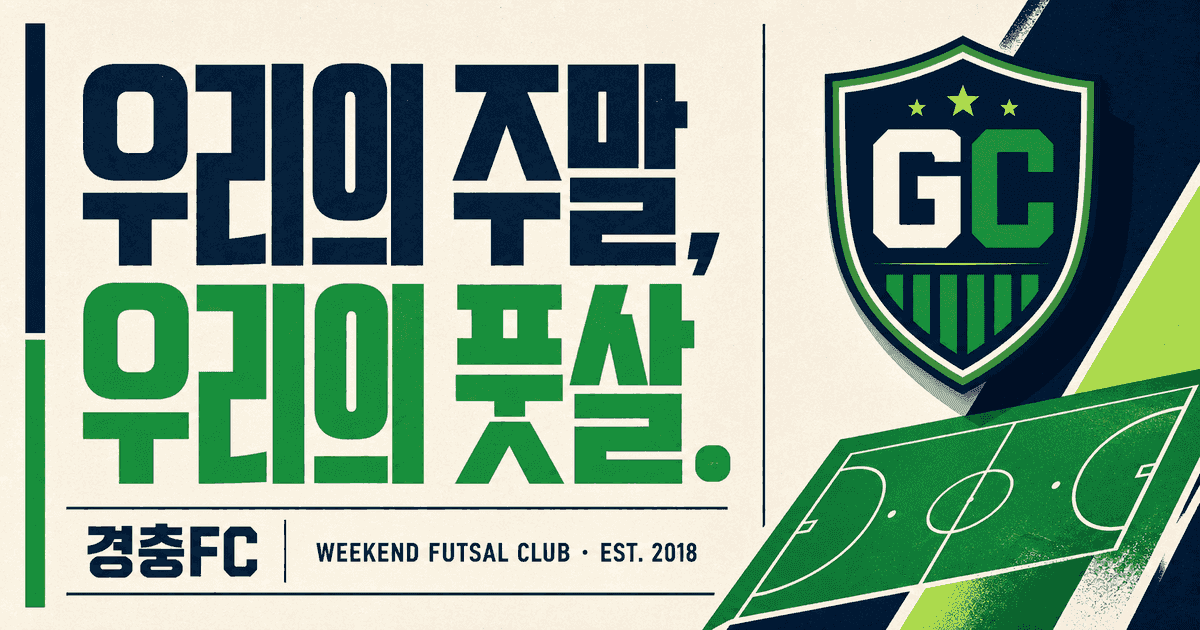
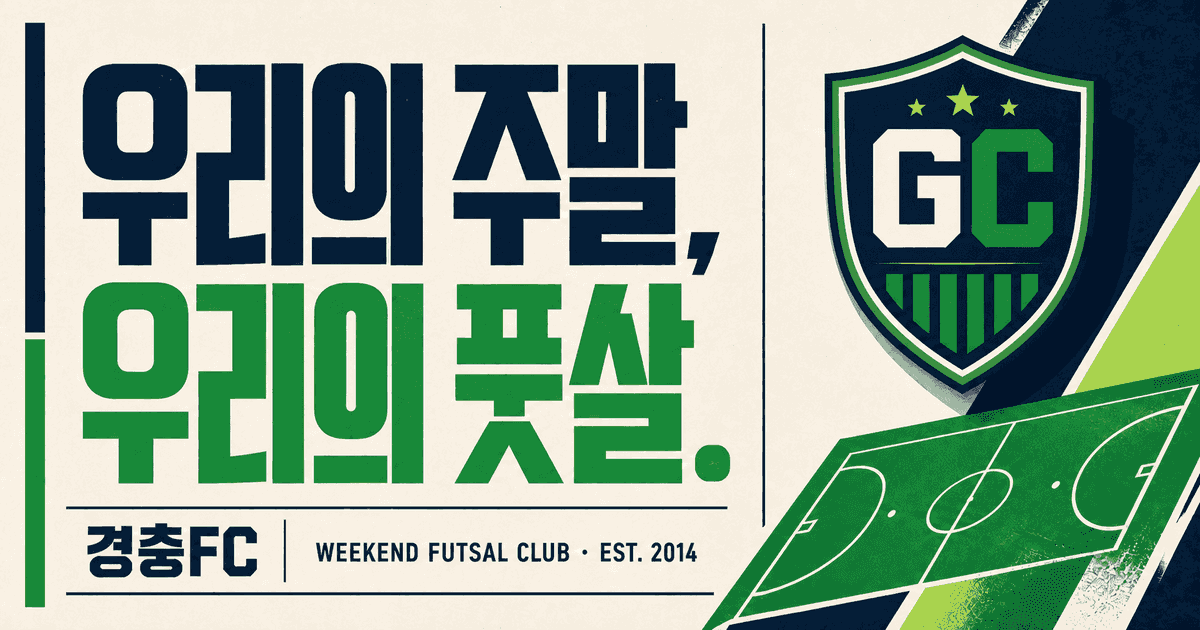
fix: 3차 QA 후속 개선 반영

diff --git a/components/clubhouse.tsx b/components/clubhouse.tsx
@@ -2,6 +2,7 @@
 
 import { useCallback, useEffect, useMemo, useRef, useState } from "react";
 import dynamic from "next/dynamic";
+import Link from "next/link";
 import { CalendarDays, Check, ChevronRight, CircleDollarSign, LogIn, LogOut, MapPin, Menu, Megaphone, Shield, UserRound, X, Youtube } from "lucide-react";
 import type { User } from "@supabase/supabase-js";
 import { createClient } from "@/lib/supabase/client";
@@ -19,12 +20,6 @@ const tabPaths: Record<Tab, string> = { home: "/", members: "/members", fees: "/
 const pathTabs = new Map(Object.entries(tabPaths).map(([tab, path]) => [path, tab as Tab]));
 
 const nextSaturday = (() => { const date = new Date(); date.setDate(date.getDate() + ((6 - date.getDay() + 7) % 7 || 7)); date.setHours(18, 0, 0, 0); return date.toISOString(); })();
-const sampleProfiles: Profile[] = [
-  { id: "sample-1", name: "김경충", email: null, phone: null, role: "admin", position: "GK", jersey_number: 1, joined_at: "2014-03-01", status: "active" },
-  { id: "sample-2", name: "박주말", email: null, phone: null, role: "member", position: "FW", jersey_number: 9, joined_at: "2019-05-12", status: "active" },
-  { id: "sample-3", name: "이풋살", email: null, phone: null, role: "member", position: "MF", jersey_number: 7, joined_at: "2020-08-23", status: "active" },
-  { id: "sample-4", name: "최패스", email: null, phone: null, role: "member", position: "DF", jersey_number: 4, joined_at: "2021-04-10", status: "active" },
-];
 const sampleEvents: Event[] = [{ id: "sample-event", title: "주말 정기 풋살", starts_at: nextSaturday, venue: "브라보 풋살장", address: "서울시 송파구", note: "흰색·검정색 유니폼을 모두 챙겨주세요.", capacity: 18, is_competitive: false, team_mode: null, event_guest_players: [], event_teams: [] }];
 const sampleNotices: Notice[] = [{ id: "sample-notice", title: "이번 주 풋살 참석 여부를 알려주세요", body: "목요일 밤 10시까지 참석 버튼을 눌러주세요. 인원에 맞춰 팀을 나눕니다.", is_pinned: true, created_at: new Date().toISOString() }];
 
@@ -35,7 +30,7 @@ export default function Clubhouse() {
   const [loginOpen, setLoginOpen] = useState(false);
   const [user, setUser] = useState<User | null>(null);
   const [me, setMe] = useState<Profile | null>(null);
-  const [profiles, setProfiles] = useState<Profile[]>(sampleProfiles);
+  const [profiles, setProfiles] = useState<Profile[]>([]);
   const [events, setEvents] = useState<Event[]>(sampleEvents);
   const [guestPlayers, setGuestPlayers] = useState<GuestPlayer[]>([]);
   const [rankings, setRankings] = useState<MemberRanking[]>([]);
@@ -53,11 +48,11 @@ export default function Clubhouse() {
   const [authLoading, setAuthLoading] = useState(true);
   const [toast, setToast] = useState<string | null>(null);
   const menuButtonRef = useRef<HTMLButtonElement>(null);
+  const authLoadKeyRef = useRef<string | undefined>(undefined);
 
   const loadData = useCallback(async (currentUser?: User | null) => {
     if (!supabase) return;
-    const [profileRes, eventRes, noticeRes, formRes] = await Promise.all([
-      supabase.rpc("get_member_directory"),
+    const [eventRes, noticeRes, formRes] = await Promise.all([
       supabase.from("events").select("id, title, starts_at, venue, address, note, capacity, is_competitive, team_mode, event_guest_players(event_id, guest_player_id, guest_name, guest_position, created_at), event_teams(id, event_id, team_number, team_name, score, generation_mode, event_team_members(id, event_id, event_team_id, profile_id, guest_player_id, participant_name, participant_position, goals, rating))").order("starts_at"),
       supabase.from("notices").select("id, title, body, is_pinned, created_at").order("is_pinned", { ascending: false }).order("created_at", { ascending: false }),
       supabase.from("participation_forms").select("*, participation_questions(*, participation_options(*))").order("created_at", { ascending: false }),
@@ -66,12 +61,11 @@ export default function Clubhouse() {
     if (loadedEvents.length) setEvents(loadedEvents);
     if (noticeRes.data?.length) setNotices(noticeRes.data as Notice[]);
     if (formRes.data) setForms((formRes.data as ParticipationForm[]).map((form) => ({ ...form, participation_questions: [...(form.participation_questions ?? [])].sort((a, b) => a.position - b.position).map((question) => ({ ...question, participation_options: [...(question.participation_options ?? [])].sort((a, b) => a.position - b.position) })) })));
-    if (profileRes.data?.length) setProfiles(profileRes.data as Profile[]);
     if (!currentUser) {
-      setMe(null); setFees([]); setAttendance([]); setFeedback([]); setSubmissions([]); setRolePermissions([]); setGuestPlayers([]); setRankings([]); setMomVotes([]); setMomResults([]); setMomLeaderboard([]); return;
+      setProfiles([]); setMe(null); setFees([]); setAttendance([]); setFeedback([]); setSubmissions([]); setRolePermissions([]); setGuestPlayers([]); setRankings([]); setMomVotes([]); setMomResults([]); setMomLeaderboard([]); return;
     }
-    const [ownRes, allProfileRes, applicationRes, feeRes, attendanceRes, feedbackRes, submissionRes, permissionRes, guestRes, rankingRes, momVoteRes, momResultRes, momLeaderboardRes] = await Promise.all([
-      supabase.from("profiles").select("*").eq("id", currentUser.id).maybeSingle(),
+    const [profileRes, allProfileRes, applicationRes, feeRes, attendanceRes, feedbackRes, submissionRes, permissionRes, guestRes, rankingRes, momVoteRes, momResultRes, momLeaderboardRes] = await Promise.all([
+      supabase.rpc("get_member_directory"),
       supabase.from("profiles").select("*").order("name"),
       supabase.from("membership_applications").select("*"),
       supabase.from("fees").select("*, profiles(name)").order("month", { ascending: false }),
@@ -91,7 +85,7 @@ export default function Clubhouse() {
       const privateProfile = privateProfiles.find((candidate) => candidate.id === profile.id);
       return { ...profile, ...privateProfile, membership_application: applications.find((application) => application.member_id === profile.id) ?? null };
     });
-    const ownProfile = ownRes.data as Profile | null;
+    const ownProfile = privateProfiles.find((profile) => profile.id === currentUser.id) ?? null;
     setProfiles(enrichedProfiles);
     setMe(ownProfile ? {
       ...ownProfile,
@@ -107,6 +101,9 @@ export default function Clubhouse() {
     if (!supabase) return;
     const { data } = supabase.auth.onAuthStateChange((_event, session) => {
       const nextUser = session?.user ?? null;
+      const authLoadKey = nextUser?.id ?? "anonymous";
+      if (authLoadKeyRef.current === authLoadKey) return;
+      authLoadKeyRef.current = authLoadKey;
       setUser(nextUser);
       setAuthLoading(false);
       void loadData(nextUser);
@@ -125,7 +122,7 @@ export default function Clubhouse() {
     if (!menuOpen) return;
     const previousOverflow = document.body.style.overflow;
     document.body.style.overflow = "hidden";
-    const firstItem = document.querySelector<HTMLButtonElement>("#primary-navigation button");
+    const firstItem = document.querySelector<HTMLAnchorElement>("#primary-navigation a");
     firstItem?.focus();
     const closeOnEscape = (event: KeyboardEvent) => {
       if (event.key === "Escape") { setMenuOpen(false); menuButtonRef.current?.focus(); }
@@ -144,6 +141,7 @@ export default function Clubhouse() {
   const goingCount = upcoming ? attendance.filter((item) => item.event_id === upcoming.id && item.status === "going").length : 0;
 
   const showToast = (message: string) => { setToast(message); window.setTimeout(() => setToast(null), 3000); };
+  const activateTab = (next: Tab) => { setTab(next); setMenuOpen(false); window.scrollTo({ top: 0, behavior: "smooth" }); };
   const navigate = (next: Tab) => { setTab(next); setMenuOpen(false); window.history.pushState({}, "", tabPaths[next]); window.scrollTo({ top: 0, behavior: "smooth" }); };
   const signIn = async (provider: "google" | "kakao", mode: PasswordAuthMode) => {
     if (!supabase) return showToast("로그인 연결을 준비 중입니다.");
@@ -213,7 +211,7 @@ export default function Clubhouse() {
       setBusy(false);
     }
   };
-  const signOut = async () => { await supabase?.auth.signOut(); setTab("home"); showToast("로그아웃했습니다."); };
+  const signOut = async () => { await supabase?.auth.signOut(); navigate("home"); showToast("로그아웃했습니다."); };
   const setMyAttendance = async (status: Attendance["status"], eventId = upcoming?.id) => {
     if (!user || !eventId || !supabase) return setLoginOpen(true);
     if (me?.status !== "active") return showToast("회원 승인 후 참석 여부를 등록할 수 있습니다.");
@@ -224,14 +222,14 @@ export default function Clubhouse() {
 
   return <main className="page">
     <header className="topbar">
-      <button className="brand" onClick={() => navigate("home")} aria-label="경충FC 홈"><span className="crest"><span>GC</span></span><span className="brand-copy"><strong>경충FC</strong><small>WEEKEND FUTSAL CLUB</small></span></button>
-      <nav id="primary-navigation" className={menuOpen ? "nav open" : "nav"} aria-label="주 메뉴">{navItems.map(([key, label]) => <button key={key} className={tab === key ? "active" : ""} aria-current={tab === key ? "page" : undefined} onClick={() => navigate(key)}>{label}</button>)}{isOfficer && <button className={tab === "admin" ? "active" : ""} aria-current={tab === "admin" ? "page" : undefined} onClick={() => navigate("admin")}>관리</button>}</nav>
+      <Link className="brand" href="/" onClick={() => activateTab("home")} aria-label="경충FC 홈"><span className="crest"><span>GC</span></span><span className="brand-copy"><strong>경충FC</strong><small>WEEKEND FUTSAL CLUB</small></span></Link>
+      <nav id="primary-navigation" className={menuOpen ? "nav open" : "nav"} aria-label="주 메뉴">{navItems.map(([key, label]) => <Link key={key} href={tabPaths[key]} className={tab === key ? "active" : ""} aria-current={tab === key ? "page" : undefined} onClick={() => activateTab(key)}>{label}</Link>)}{isOfficer && <Link href={tabPaths.admin} className={tab === "admin" ? "active" : ""} aria-current={tab === "admin" ? "page" : undefined} onClick={() => activateTab("admin")}>관리</Link>}</nav>
       <div className="account"><a className="youtube-link" href="https://www.youtube.com/channel/UCR4JmQqbKE21qOMkf7xdYQQ" target="_blank" rel="noreferrer" aria-label="경충FC 유튜브"><Youtube size={20} /></a>{authLoading ? <span className="auth-loading" aria-label="로그인 상태 확인 중">확인 중</span> : user ? <button className="login-button" onClick={signOut}><LogOut size={16} /> {me?.name ?? "로그아웃"}</button> : <button className="login-button" onClick={() => setLoginOpen(true)}><LogIn size={16} /> 로그인</button>}<button ref={menuButtonRef} className="menu-button" onClick={() => setMenuOpen((open) => !open)} aria-label={menuOpen ? "메뉴 닫기" : "메뉴 열기"} aria-expanded={menuOpen} aria-controls="primary-navigation">{menuOpen ? <X /> : <Menu />}</button></div>
     </header>
 
     {me?.status === "pending" && me.membership_application && <div className="approval-banner">가입 신청이 접수되었습니다. 매니저 또는 어드민의 승인을 기다리고 있습니다.</div>}
     {tab === "home" && <Home upcoming={upcoming} notice={notices[0]} fee={myFee} goingCount={goingCount} memberCount={activeProfiles.length} user={user} onNavigate={navigate} onAttendance={setMyAttendance} myAttendance={attendance.find((row) => row.event_id === upcoming?.id && row.member_id === user?.id)?.status} />}
-    {tab === "members" && <Members profiles={activeProfiles} />}
+    {tab === "members" && <Members profiles={activeProfiles} user={user} onLogin={() => setLoginOpen(true)} />}
     {tab === "fees" && <Fees fees={fees} profiles={profiles} user={user} onLogin={() => setLoginOpen(true)} />}
     {tab === "notices" && <Notices notices={notices} />}
     {tab === "events" && <Events events={events} profiles={profiles} attendance={attendance} momVotes={momVotes} momResults={momResults} user={user} profile={me} supabase={supabase} onAttendance={setMyAttendance} onLogin={() => setLoginOpen(true)} reload={() => void loadData(user)} toast={showToast} />}
@@ -341,7 +339,7 @@ function Home({ upcoming, notice, fee, goingCount, memberCount, user, onNavigate
 }
 
 function PageIntro({ kicker, title, description }: { kicker: string; title: string; description: string }) { return <div className="page-intro"><span className="eyebrow">{kicker}</span><h1>{title}</h1><p>{description}</p></div>; }
-function Members({ profiles }: { profiles: Profile[] }) { return <section className="content"><PageIntro kicker="SQUAD" title="함께 뛰는 사람들" description="포지션보다 이름을 먼저 기억하는 경충FC의 회원입니다." /><div className="member-grid">{profiles.map((profile, index) => <article className="member-card" key={profile.id}><span className="member-number">{profile.jersey_number ?? String(index + 1).padStart(2, "0")}</span><div className="avatar"><UserRound /></div><small>{profile.position ?? "PLAYER"}</small><h2>{profile.name}</h2><p>JOINED {new Date(profile.joined_at).getFullYear()}</p>{profile.role !== "member" && <span className="admin-badge">{roleLabels[profile.role]}</span>}</article>)}</div></section>; }
+function Members({ profiles, user, onLogin }: { profiles: Profile[]; user: User | null; onLogin: () => void }) { if (!user) return <section className="content"><PageIntro kicker="SQUAD" title="함께 뛰는 사람들" description="회원 명단은 승인된 회원에게만 공개합니다." /><button className="cta" onClick={onLogin}>로그인하고 확인하기 <ChevronRight /></button></section>; return <section className="content"><PageIntro kicker="SQUAD" title="함께 뛰는 사람들" description="포지션보다 이름을 먼저 기억하는 경충FC의 회원입니다." /><div className="member-grid">{profiles.map((profile, index) => <article className="member-card" key={profile.id}><span className="member-number">{profile.jersey_number ?? String(index + 1).padStart(2, "0")}</span><div className="avatar"><UserRound /></div><small>{profile.position ?? "PLAYER"}</small><h2>{profile.name}</h2><p>JOINED {new Date(profile.joined_at).getFullYear()}</p>{profile.role !== "member" && <span className="admin-badge">{roleLabels[profile.role]}</span>}</article>)}</div></section>; }
 function Fees({ fees, profiles, user, onLogin }: { fees: Fee[]; profiles: Profile[]; user: User | null; onLogin: () => void }) { if (!user) return <section className="content"><PageIntro kicker="MEMBERSHIP FEE" title="회비 현황" description="회원에게만 공개하는 정보입니다." /><button className="cta" onClick={onLogin}>로그인하고 확인하기 <ChevronRight /></button></section>; return <section className="content"><PageIntro kicker="MEMBERSHIP FEE" title="회비 현황" description="월별 납부 내역을 투명하게 확인합니다." /><div className="table-wrap"><table><caption className="sr-only">회원별 월 회비 납부 현황</caption><thead><tr><th scope="col">회원</th><th scope="col">기준 월</th><th scope="col">금액</th><th scope="col">상태</th></tr></thead><tbody>{fees.map((fee) => <tr key={fee.id}><th scope="row">{fee.profiles?.name ?? profiles.find((profile) => profile.id === fee.member_id)?.name ?? "회원"}</th><td>{fee.month.slice(0, 7)}</td><td>{fee.amount.toLocaleString()}원</td><td><FeeStatus status={fee.status} /></td></tr>)}</tbody></table>{fees.length === 0 && <Empty icon={<CircleDollarSign />} title="등록된 회비 내역이 없습니다" description="총무가 회비 내역을 등록하면 여기에 표시됩니다." />}</div></section>; }
 function FeeStatus({ status }: { status: Fee["status"] }) { return <span className={`status ${status}`}>{status === "paid" ? "납부 완료" : status === "exempt" ? "면제" : "미납"}</span>; }
 function Notices({ notices }: { notices: Notice[] }) { return <section className="content"><PageIntro kicker="NOTICE BOARD" title="공지사항" description="놓치면 안 되는 클럽 소식을 전합니다." /><div className="notice-list">{notices.map((notice, index) => <article key={notice.id}><span className="notice-index">{String(index + 1).padStart(2, "0")}</span><div>{notice.is_pinned && <small className="pin">PINNED</small>}<h2>{notice.title}</h2><p>{notice.body}</p><time>{new Date(notice.created_at).toLocaleDateString("ko-KR")}</time></div></article>)}</div></section>; }
@@ -364,16 +362,17 @@ function Events({ events, profiles, attendance, momVotes, momResults, user, prof
     const scoredTeams = teams.filter((team) => team.score !== null);
     const maxScore = scoredTeams.length ? Math.max(...scoredTeams.map((team) => team.score ?? 0)) : null;
     const winnerCount = maxScore === null ? 0 : scoredTeams.filter((team) => team.score === maxScore).length;
-    return <article key={event.id} className={`event-card${isPast ? " past" : ""}`}><div className="event-date"><small>{new Date(event.starts_at).getFullYear()}</small><b>{String(new Date(event.starts_at).getDate()).padStart(2, "0")}</b><span>{new Date(event.starts_at).toLocaleDateString("ko-KR", { month: "short", weekday: "short" })}</span></div><div className="event-info"><small>{isPast ? "지난 일정" : "WEEKLY FUTSAL"} · #{String(index + 1).padStart(2, "0")}{event.is_competitive ? " · 커피 내기" : ""}</small><h2>{event.title}</h2><p><MapPin size={16} /> <a className="inline-map-link" href={naverMapUrl(event)} target="_blank" rel="noreferrer">{event.venue}</a> · {formatTime(event.starts_at)}</p><span>{event.note}</span>{guests.length > 0 && <div className="guest-roster"><b>참여 용병</b>{guests.map((guest) => <span key={guest.guest_player_id}>{guest.guest_name}{guest.guest_position ? ` · ${guest.guest_position}` : ""}</span>)}</div>}{teams.length > 0 && <div className="event-teams">{teams.map((team) => { const result = team.score === null || maxScore === null ? null : team.score === maxScore ? winnerCount > 1 ? "무승부" : "승리" : "패배"; return <div className="event-team" key={team.id}><div><b>{team.team_name}</b>{event.is_competitive && <span>{team.score ?? "-"}점{result ? ` · ${result}` : ""}</span>}</div><p>{team.event_team_members.map((member) => `${member.participant_name}${member.goals ? ` ${member.goals}골` : ""}${member.rating !== null ? ` ${member.rating}점` : ""}`).join(" · ")}</p></div>; })}</div>}{eventResults.length > 0 && <div className="mom-results"><b>MOM TOP 3</b>{eventResults.map((result) => <span key={result.candidate_profile_id}>{result.mom_rank}위 {result.candidate_name} · {result.vote_count}표</span>)}</div>}</div><div className="event-action"><b>회원 {count}명 · 용병 {guests.length}명</b><button className="cta small" disabled={isPast} onClick={() => user ? onAttendance("going", event.id) : onLogin()}>{isPast ? "지난 일정" : "참석하기"}</button>{canVote && <button className="text-link" onClick={() => setVotingEvent(event)}>{ownVote ? "MOM 재투표" : "MOM 투표"}</button>}</div></article>;
+    const eventDate = new Date(event.starts_at);
+    return <article key={event.id} className={`event-card${isPast ? " past" : ""}`}><time className="event-date" dateTime={event.starts_at}><small>{eventDate.getFullYear()} · {eventDate.toLocaleDateString("ko-KR", { month: "long" })}</small><b>{String(eventDate.getDate()).padStart(2, "0")}</b><span>{eventDate.toLocaleDateString("ko-KR", { weekday: "long" })}</span></time><div className="event-info"><small>{isPast ? "지난 일정" : "WEEKLY FUTSAL"} · #{String(index + 1).padStart(2, "0")}{event.is_competitive ? " · 커피 내기" : ""}</small><h2>{event.title}</h2><p><MapPin size={16} /> <a className="inline-map-link" href={naverMapUrl(event)} target="_blank" rel="noreferrer">{event.venue}</a> · {formatTime(event.starts_at)}</p><span>{event.note}</span>{guests.length > 0 && <div className="guest-roster"><b>참여 용병</b>{guests.map((guest) => <span key={guest.guest_player_id}>{guest.guest_name}{guest.guest_position ? ` · ${guest.guest_position}` : ""}</span>)}</div>}{teams.length > 0 && <div className="event-teams">{teams.map((team) => { const result = team.score === null || maxScore === null ? null : team.score === maxScore ? winnerCount > 1 ? "무승부" : "승리" : "패배"; return <div className="event-team" key={team.id}><div><b>{team.team_name}</b>{event.is_competitive && <span>{team.score ?? "-"}점{result ? ` · ${result}` : ""}</span>}</div><p>{team.event_team_members.map((member) => `${member.participant_name}${member.goals ? ` ${member.goals}골` : ""}${member.rating !== null ? ` ${member.rating}점` : ""}`).join(" · ")}</p></div>; })}</div>}{eventResults.length > 0 && <div className="mom-results"><b>MOM TOP 3</b>{eventResults.map((result) => <span key={result.candidate_profile_id}>{result.mom_rank}위 {result.candidate_name} · {result.vote_count}표</span>)}</div>}</div><div className="event-action"><b>회원 {count}명 · 용병 {guests.length}명</b><button className="cta small" disabled={isPast} onClick={() => user ? onAttendance("going", event.id) : onLogin()}>{isPast ? "지난 일정" : "참석하기"}</button>{canVote && <button className="text-link" onClick={() => setVotingEvent(event)}>{ownVote ? "MOM 재투표" : "MOM 투표"}</button>}</div></article>;
   })}</div>{votingEvent && <div className="modal-backdrop" onClick={() => setVotingEvent(null)}><div className="editor mom-vote-modal" role="dialog" aria-modal="true" aria-label="MOM 투표" onClick={(event) => event.stopPropagation()}><button className="modal-close" aria-label="닫기" onClick={() => setVotingEvent(null)}><X /></button><span className="eyebrow">MAN OF THE MATCH</span><h2>MOM 투표</h2><p className="form-description">실제 출석한 회원 중 한 명을 선택해 주세요. 본인에게는 투표할 수 없습니다.</p><div className="mom-candidates">{profiles.filter((candidate) => candidate.id !== user?.id && candidate.status === "active" && attendance.some((row) => row.event_id === votingEvent.id && row.member_id === candidate.id && row.checked_in_at)).map((candidate) => <button key={candidate.id} className={momVotes.find((vote) => vote.event_id === votingEvent.id)?.candidate_profile_id === candidate.id ? "selected" : ""} onClick={() => void submitMomVote(candidate.id)}><span>{candidate.position ?? "PLAYER"}</span><b>{candidate.name}</b></button>)}</div></div></div>}</section>;
 }
 
 function Rankings({ rankings, momLeaderboard, user, profile, onLogin }: { rankings: MemberRanking[]; momLeaderboard: MomLeaderboardEntry[]; user: User | null; profile: Profile | null; onLogin: () => void }) {
   if (!user) return <section className="content"><PageIntro kicker="CLUB RANKING" title="활동 랭킹" description="실제 출석과 회비 납부 기록으로 보는 경충FC 활동 대시보드입니다." /><button className="cta" onClick={onLogin}>로그인하고 확인하기 <ChevronRight /></button></section>;
   if (profile?.status !== "active") return <section className="content"><PageIntro kicker="CLUB RANKING" title="활동 랭킹" description="실제 출석과 회비 납부 기록으로 보는 경충FC 활동 대시보드입니다." /><Empty icon={<Shield />} title="회원 승인 후 확인할 수 있습니다" description="가입 승인이 완료되면 활동 랭킹이 공개됩니다." /></section>;
-  return <section className="content"><PageIntro kicker="CLUB RANKING" title="활동 랭킹" description="실제 출석 1회는 3점, 회비 납부 1개월은 1점으로 집계합니다. 금액과 개인 연락처는 공개하지 않습니다." /><div className="ranking-layout"><div><div className="section-heading compact"><div><span className="eyebrow">ACTIVITY</span><h2>활동 순위</h2></div></div><div className="table-wrap ranking-table"><table><thead><tr><th>순위</th><th>회원</th><th>실제 출석</th><th>회비 납부</th><th>종합 점수</th></tr></thead><tbody>{rankings.map((ranking, index) => <tr key={ranking.member_id}><td><span className="rank-badge">{index + 1}</span></td><td>{ranking.member_name}</td><td>{ranking.attendance_count}회</td><td>{ranking.paid_fee_count}개월</td><td><b>{ranking.total_score}점</b></td></tr>)}</tbody></table>{rankings.length === 0 && <Empty icon={<CalendarDays />} title="아직 집계된 기록이 없습니다" description="실제 출석이나 회비 납부 기록이 등록되면 순위가 표시됩니다." />}</div></div><div><div className="section-heading compact"><div><span className="eyebrow">MOM HALL OF FAME</span><h2>MOM 명예의 전당</h2></div></div><div className="table-wrap ranking-table"><table><thead><tr><th>순위</th><th>회원</th><th>1위</th><th>2위</th><th>3위</th><th>득표</th></tr></thead><tbody>{momLeaderboard.map((ranking, index) => <tr key={ranking.member_id}><td><span className="rank-badge">{index + 1}</span></td><td>{ranking.member_name}</td><td>{ranking.first_place_count}회</td><td>{ranking.second_place_count}회</td><td>{ranking.third_place_count}회</td><td>{ranking.total_votes}표</td></tr>)}</tbody></table></div></div></div></section>;
+  return <section className="content"><PageIntro kicker="CLUB RANKING" title="활동 랭킹" description="실제 출석 1회는 3점, 회비 납부 1개월은 1점으로 집계합니다. 금액과 개인 연락처는 공개하지 않습니다." /><div className="ranking-layout"><div><div className="section-heading compact"><div><span className="eyebrow">ACTIVITY</span><h2>활동 순위</h2></div></div><div className="table-wrap ranking-table"><table><caption className="sr-only">회원별 출석 및 회비 납부 활동 순위</caption><thead><tr><th scope="col">순위</th><th scope="col">회원</th><th scope="col">실제 출석</th><th scope="col">회비 납부</th><th scope="col">종합 점수</th></tr></thead><tbody>{rankings.map((ranking, index) => <tr key={ranking.member_id}><td><span className="rank-badge">{index + 1}</span></td><th scope="row">{ranking.member_name}</th><td>{ranking.attendance_count}회</td><td>{ranking.paid_fee_count}개월</td><td><b>{ranking.total_score}점</b></td></tr>)}</tbody></table>{rankings.length === 0 && <Empty icon={<CalendarDays />} title="아직 집계된 기록이 없습니다" description="실제 출석이나 회비 납부 기록이 등록되면 순위가 표시됩니다." />}</div></div><div><div className="section-heading compact"><div><span className="eyebrow">MOM HALL OF FAME</span><h2>MOM 명예의 전당</h2></div></div><div className="table-wrap ranking-table"><table><caption className="sr-only">회원별 MOM 수상 및 득표 순위</caption><thead><tr><th scope="col">순위</th><th scope="col">회원</th><th scope="col">1위</th><th scope="col">2위</th><th scope="col">3위</th><th scope="col">득표</th></tr></thead><tbody>{momLeaderboard.map((ranking, index) => <tr key={ranking.member_id}><td><span className="rank-badge">{index + 1}</span></td><th scope="row">{ranking.member_name}</th><td>{ranking.first_place_count}회</td><td>{ranking.second_place_count}회</td><td>{ranking.third_place_count}회</td><td>{ranking.total_votes}표</td></tr>)}</tbody></table></div></div></div></section>;
 }
-function Empty({ icon, title, description }: { icon: React.ReactNode; title: string; description: string }) { return <div className="empty">{icon}<h3>{title}</h3><p>{description}</p></div>; }
+function Empty({ icon, title, description }: { icon: React.ReactNode; title: string; description: string }) { return <div className="empty">{icon}<h2>{title}</h2><p>{description}</p></div>; }
 function formatDate(value: string) { return new Date(value).toLocaleDateString("ko-KR", { year: "numeric", month: "long", day: "numeric", weekday: "short" }); }
 function formatTime(value: string) { return new Date(value).toLocaleTimeString("ko-KR", { hour: "2-digit", minute: "2-digit", hour12: false }); }
 function naverMapUrl(event: Pick<Event, "venue" | "address">) { return `https://map.naver.com/p/search/${encodeURIComponent([event.venue, event.address].filter(Boolean).join(" "))}`; }

diff --git a/components/participation-hub.tsx b/components/participation-hub.tsx
@@ -62,11 +62,11 @@ export default function ParticipationHub({ user, profile, forms, submissions, su
           const isDone = completed.has(form.id);
           return <article className="participation-card" key={form.id}>
             <div className="participation-icon"><Icon /></div>
-            <div className="participation-copy"><small>{kindMeta[form.kind].label} · {form.status === "open" ? "진행 중" : "마감"}</small><h3>{form.title}</h3><p>{form.description}</p>{form.secret_ballot && <span className="secret"><LockKeyhole size={14} /> 비밀 투표</span>}</div>
+            <div className="participation-copy"><small>{kindMeta[form.kind].label} · {form.status === "open" ? "진행 중" : "마감"}</small><h2>{form.title}</h2><p>{form.description}</p>{form.secret_ballot && <span className="secret"><LockKeyhole size={14} /> 비밀 투표</span>}</div>
             <button className={isDone ? "done-button" : "cta small"} disabled={isDone || form.status !== "open"} onClick={() => { if (!user) return onLogin(); setActiveId(form.id); setAnswers({}); }}>{isDone ? <><Check size={16} /> 참여 완료</> : form.status === "open" ? "참여하기" : "마감됨"}</button>
           </article>;
         })}
-        {forms.length === 0 && <div className="empty"><Vote /><h3>현재 공개된 참여 항목이 없습니다</h3><p>새 선거, 투표 또는 설문이 열리면 이곳에 표시됩니다.</p></div>}
+        {forms.length === 0 && <div className="empty"><Vote /><h2>현재 공개된 참여 항목이 없습니다</h2><p>새 선거, 투표 또는 설문이 열리면 이곳에 표시됩니다.</p></div>}
       </div>
       {active && <div className="modal-backdrop" onClick={() => setActiveId(null)}><form className="editor participation-editor" onSubmit={submit} onClick={(event) => event.stopPropagation()}><button type="button" className="modal-close" aria-label="닫기" onClick={() => setActiveId(null)}>×</button><span className="eyebrow">{kindMeta[active.kind].label}</span><h2>{active.title}</h2><p>{active.description}</p>{active.participation_questions.map((question, index) => <QuestionField key={question.id} question={question} index={index} value={answers[question.id]} onChange={(value, checked) => setAnswer(question, value, checked)} />)}<button className="cta" disabled={saving}>{saving ? "제출 중…" : "응답 제출"}</button></form></div>}
     </section>

diff --git a/components/admin-console.tsx b/components/admin-console.tsx
@@ -62,7 +62,7 @@ function PermissionMatrix({ rows, supabase, reload, toast }: { rows: RolePermiss
     if (result.error) return toast(result.error.message);
     reload();
   };
-  return <div className="permission-matrix"><div className="permission-intro"><ShieldCheck /><p>어드민 권한과 매니저의 회원 관리·가입 승인 권한은 고정되며, 그 외 매니저 운영 업무를 조정할 수 있습니다.</p></div><div className="table-wrap"><table><thead><tr><th>권한</th>{roles.map((role) => <th key={role}>{roleLabels[role]}</th>)}</tr></thead><tbody>{Object.entries(permissionLabels).map(([permission, label]) => <tr key={permission}><td>{label}</td>{roles.map((role) => { const checked = rows.some((row) => row.role === role && row.permission === permission); const disabled = role === "admin" || permission === "roles.manage" || (role === "manager" && permission === "members.manage"); return <td key={role}><input aria-label={`${roleLabels[role]} ${label}`} type="checkbox" checked={checked} disabled={disabled} onChange={(event) => void toggle(role, permission, event.target.checked)} /></td>; })}</tr>)}</tbody></table></div></div>;
+  return <div className="permission-matrix"><div className="permission-intro"><ShieldCheck /><p>어드민 권한과 매니저의 회원 관리·가입 승인 권한은 고정되며, 그 외 매니저 운영 업무를 조정할 수 있습니다.</p></div><div className="table-wrap"><table><caption className="sr-only">역할별 운영 권한 설정</caption><thead><tr><th scope="col">권한</th>{roles.map((role) => <th scope="col" key={role}>{roleLabels[role]}</th>)}</tr></thead><tbody>{Object.entries(permissionLabels).map(([permission, label]) => <tr key={permission}><th scope="row">{label}</th>{roles.map((role) => { const checked = rows.some((row) => row.role === role && row.permission === permission); const disabled = role === "admin" || permission === "roles.manage" || (role === "manager" && permission === "members.manage"); return <td key={role}><input aria-label={`${roleLabels[role]} ${label}`} type="checkbox" checked={checked} disabled={disabled} onChange={(event) => void toggle(role, permission, event.target.checked)} /></td>; })}</tr>)}</tbody></table></div></div>;
 }
 
 type TeamParticipant = { kind: "member" | "guest"; id: string; name: string; position: string | null };

diff --git a/app/[section]/page.tsx b/app/[section]/page.tsx
@@ -1,9 +1,34 @@
+import type { Metadata } from "next";
 import { notFound } from "next/navigation";
 import Clubhouse from "@/components/clubhouse";
 
 const sections = new Set(["members", "fees", "notices", "events", "rankings", "feedback", "participation", "admin"]);
+const sectionMeta: Record<string, { title: string; description: string }> = {
+  members: { title: "회원 | 경충FC", description: "승인된 경충FC 회원 명단을 확인합니다." },
+  fees: { title: "회비 | 경충FC", description: "경충FC 회원의 월별 회비 납부 현황을 확인합니다." },
+  notices: { title: "공지사항 | 경충FC", description: "경충FC의 최신 운영 공지를 확인합니다." },
+  events: { title: "일정 | 경충FC", description: "경충FC의 주말 풋살 일정과 참석 정보를 확인합니다." },
+  rankings: { title: "랭킹 | 경충FC", description: "출석, 회비 및 MOM 기록으로 집계한 경충FC 활동 랭킹입니다." },
+  feedback: { title: "사용자 의견 | 경충FC", description: "경충FC 운영과 시스템에 관한 의견을 전달합니다." },
+  participation: { title: "투표·설문 | 경충FC", description: "경충FC 선거, 의사결정 투표와 설문에 참여합니다." },
+  admin: { title: "운영 관리 | 경충FC", description: "경충FC 운영진 전용 관리 화면입니다." },
+};
 
-export default async function SectionPage({ params }: { params: Promise<{ section: string }> }) {
+type SectionProps = { params: Promise<{ section: string }> };
+
+export async function generateMetadata({ params }: SectionProps): Promise<Metadata> {
+  const { section } = await params;
+  const page = sectionMeta[section];
+  if (!page) return {};
+  return {
+    title: page.title,
+    description: page.description,
+    alternates: { canonical: `/${section}` },
+    ...(section === "admin" ? { robots: { index: false, follow: false } } : {}),
+  };
+}
+
+export default async function SectionPage({ params }: SectionProps) {
   const { section } = await params;
   if (!sections.has(section)) notFound();
   return <Clubhouse />;

diff --git a/app/globals.css b/app/globals.css
@@ -38,3 +38,8 @@
 .event-card.past{border-left-color:var(--muted);opacity:.86}.event-action .cta:disabled{background:#d8dce0;color:#52606e;box-shadow:none;cursor:not-allowed;transform:none}
 .auth-loading{min-width:72px;color:var(--muted);font-size:12px;font-weight:900;text-align:center}
 @media(max-width:900px){.topbar{height:82px;grid-template-columns:1fr auto}.brand-copy small{display:none}.crest{width:48px;height:52px;font-size:18px}.nav{display:none;position:absolute;top:82px;left:0;right:0;background:var(--paper);padding:12px 5vw 20px;border-bottom:1px solid var(--line);flex-direction:column;align-items:stretch;gap:0}.nav.open{display:flex}.nav button{padding:13px;text-align:left;min-height:44px}.nav button:after{bottom:7px}.menu-button{display:block}.youtube-link{display:none}.login-button{font-size:0;padding:0;width:44px;justify-content:center}.login-button svg{width:20px;height:20px}}
+
+/* Third-round QA refinements */
+.nav a{color:var(--navy);font-weight:900;padding:39px 2px 34px;position:relative;text-decoration:none}.nav a:after{content:"";height:4px;position:absolute;left:0;right:100%;bottom:25px;background:var(--green);transition:.2s}.nav a:hover:after,.nav a.active:after{right:0}
+.cta.small,.login-button{height:44px;min-height:44px}.event-card.past .event-date small,.event-card.past .event-info>small{color:#187435}.event-date small{white-space:nowrap}.empty h2{color:var(--navy);font-size:21px;margin-bottom:0}.participation-copy h2{font-size:24px;margin:7px 0}
+@media(max-width:900px){.nav a{padding:13px;text-align:left;min-height:44px}.nav a:after{bottom:7px}}

diff --git a/docs/QA_RESPONSE_20260811.md b/docs/QA_RESPONSE_20260811.md
@@ -1,0 +1,72 @@
+# 경충FC 클럽하우스 3차 QA 조치 답변
+
+- 원본: `경충FC_QA재검증리포트_20260810.md`
+- 조치일: 2026-08-11 KST
+- 대상: https://gyungchung.vercel.app
+
+## 결론
+
+3차 QA의 기능·보안·접근성 지적은 모두 검토했다. 다크 모드를 제외한 실행 가능한 항목을 반영했으며, 리포트에서 이미 반영된 사항을 미수정으로 분류한 일부 문장은 근거와 함께 정정한다.
+
+## 수용 및 조치
+
+| 항목 | 판정 | 조치 |
+| --- | --- | --- |
+| P1-3 API 중복 호출 | 수용·완료 | 같은 사용자에 대한 중복 인증 이벤트를 `authLoadKeyRef`로 차단했다. 추가로 본인 프로필과 전체 프로필의 중복 쿼리를 하나로 합쳤다. |
+| P2-1 nav 버튼 | 수용·완료 | 모든 주 메뉴와 브랜드 홈을 Next.js `<Link>`로 교체했다. 새 탭 열기, 링크 복사, 가운데 클릭이 가능하다. |
+| P2-1 라우트별 title | 수용·완료 | 회원·회비·공지·일정·랭킹·의견·참여·관리 화면에 개별 title, description, canonical을 적용했다. 관리 화면은 `noindex` 처리했다. |
+| P2-5 헤딩 구조 | 수용·완료 | 회비 빈 상태와 참여 카드/빈 상태를 `h2`로 바꿔 `h1 → h2` 구조로 정리했다. |
+| P3-2 42px 탭 타깃 | 수용·완료 | 작은 CTA와 로그인 버튼 높이를 44px로 통일했다. |
+| P3-10 표 접근성 | 수용·완료 | 회비 외에 활동 랭킹, MOM 랭킹, 관리자 권한표에도 caption과 `scope`를 적용했다. |
+| R-1 일정 날짜 표기 | 수용·완료 | 날짜 블록을 `2026 · 8월 / 08 / 토요일` 구조의 `<time datetime>` 요소로 변경했다. |
+| R-2 색 대비 | 수용·완료 | 지난 일정의 연도·상태 텍스트를 `#187435`로 변경해 기존 3.05:1 대비 문제를 해소했다. |
+| R-3 익명 회원 명단 | 수용·완료 | 회원 명단은 로그인 회원 기능으로 확정했다. 익명 RPC 실행 권한을 회수하고 함수 내부에도 `auth.uid()` 검사를 추가했다. 비로그인 `/members`에는 로그인 안내만 표시한다. |
+| R-4 OG 연도 | 수용·완료 | OG 이미지 내부 문구를 `EST. 2014`로 교체하고 1200×630, 약 99KB로 다시 최적화했다. |
+
+## 반려 또는 정정
+
+### 다크 모드
+
+이번 작업에서는 반려한다. 현재 사이트는 크림색 종이 질감, 네이비, 그린을 중심으로 설계된 단일 브랜드 테마이며 다크 모드는 기능 결함이 아닌 선택 기능이다. 별도 디자인 기준과 대비 검증 없이 자동 색상 반전만 추가하면 브랜드 일관성과 가독성을 악화시킬 수 있다.
+
+### R-1의 “날짜가 사라졌다”는 원인 설명
+
+문장 그대로는 반려한다. 기존 DOM의 굵은 `08`은 월이 아니라 `getDate()`로 출력한 일(day)이었다. 다만 `2026 / 08 / 8월 토` 순서가 모호했다는 UX 지적은 타당하므로 표기 구조를 명확하게 수정했다.
+
+### P3-7 단복수 미수정 판정
+
+반려한다. 기존 코드에 이미 `memberCount === 1 ? "MEMBER" : "MEMBERS"` 처리가 있었다. 현재 회원 수가 2명이어서 화면에서 복수형만 관찰됐을 뿐이다.
+
+### P3-10 전체 미수정 판정
+
+부분 정정한다. 회비 표에는 2차 조치에서 이미 caption과 `scope`가 적용돼 있었다. 이번 조치에서 랭킹과 관리자 권한표까지 확대했다.
+
+### SWR/TanStack Query 및 전면적인 라우트별 데이터 계층 전환
+
+이번 결함 수정 범위에서는 반려한다. 중복의 직접 원인은 동일 인증 상태 이벤트에 대한 재호출이었고, 작은 가드와 프로필 쿼리 통합으로 해결됐다. 캐시 라이브러리 도입과 데이터 계층 전면 변경은 별도 성능 개선 과제로 분리하는 것이 안전하다.
+
+## 검증 결과
+
+- `npm run lint`: 통과
+- `npm run build`: 통과
+- Chrome 일반회원 새로고침 후 Supabase API 로그: **16개 엔드포인트가 각각 1회**, 총 16회
+- `/profiles`: 1회
+- `/rpc/get_member_directory`: 1회
+- 익명 `get_member_directory` 실행 권한: 없음
+- 로그인 회원 `get_member_directory` 실행 권한: 있음
+- 익명 `profiles` 조회 권한: 없음
+- Supabase 보안 점검: `get_member_directory`의 `SECURITY DEFINER` 경고는 의도된 설계다. 함수는 고정 `search_path`, 무인자 호출, `auth.uid()` 검사, 제한된 활성 회원 필드만 반환하며 실행 권한도 `authenticated`에만 부여했다.
+- `/events`: 날짜 `2026 · 8월 / 08 / 토요일`, 지난 일정 버튼 44px·비활성 확인
+- `/fees`: `h1 → h2`, 회비 표 caption 확인
+- `/participation`: `h1 → h2` 확인
+- 주 메뉴: 8개 모두 실제 `<a href>` 확인
+- 라우트별 title 확인: `회원 | 경충FC`, `일정 | 경충FC`, `회비 | 경충FC`, `투표·설문 | 경충FC`
+- 프로덕션 배포: https://gyungchung.vercel.app
+
+## 보류 항목
+
+- Google/Kakao 실계정 OAuth 재검증
+- Supabase 유출 비밀번호 보호(Leaked Password Protection) 활성화: 대시보드 운영 설정 항목
+- iOS Safari 및 Android Chrome 실기기 검증
+- 다크 모드 신규 디자인
+- 라우트 단위 지연 로딩과 클라이언트 캐시 도입을 포함한 추가 성능 최적화
